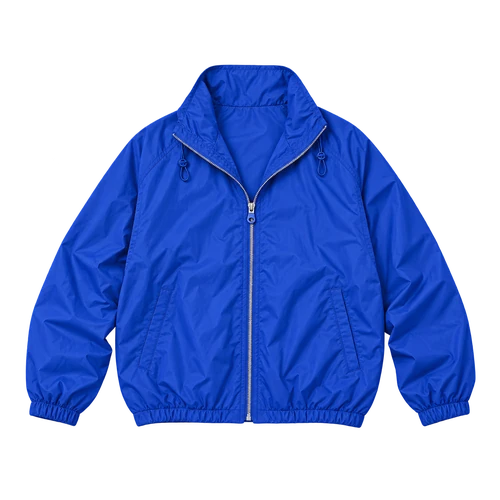
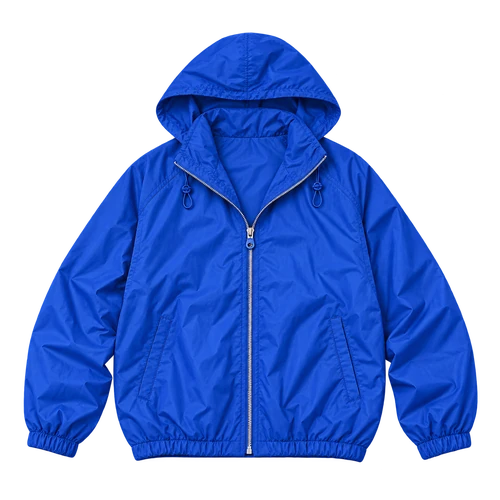
b180: coastal overcast cool 02 windbreaker hood-v2 product cut (parent-resolved hood correction)
Replace only look 02 jacket.webp with the producer's corrected cut showing the
attached hood (editorial hood rests down behind the neck), and rename the item
Cobalt hooded windbreaker (ko/en/de). Other 32 images, editorials, IDs, stories,
how-to-wear and selection unchanged. BUILD b180, module/cutouts cache b180.

Changed region(s): [[0.03, 0.06, 0.96, 0.93], [0.54, 0.51, 0.57, 0.54]]

diff --git a/look/coastal-overcast-cool-female-day-street-20261028.js b/look/coastal-overcast-cool-female-day-street-20261028.js
@@ -22,7 +22,7 @@ var items={
 "coastal-cool-f35-day-street-20261028-01.jeans": {"id": "coastal-cool-f35-day-street-20261028-01.jeans", "cat": "bottom", "name": {"ko": "차콜 와이드 데님", "en": "Washed charcoal wide-leg jeans", "de": "Weite Jeans in verwaschenem Anthrazit"}, "note": {"ko": "상의 밑단을 허리에 가볍게 정리하고 넓은 바짓단이 스니커즈 밑창 아래로 끌리지 않게 길이를 맞추세요.", "en": "Keep the top tidy at the waist and choose a hem that clears the sneakers' soles.", "de": "Das Oberteil am Bund ordnen und die Länge so wählen, dass der weite Saum nicht unter die Sneaker rutscht."}, "image": "look/global/coastal-overcast-cool-female-day-street-20261028/coastal-cool-f35-day-street-20261028-01/products/jeans.webp", "alt": "차콜 와이드 데님 — 독립 투명 배경 제품 컷", "bg": "#F3EFE8"},
 "coastal-cool-f35-day-street-20261028-01.sneakers": {"id": "coastal-cool-f35-day-street-20261028-01.sneakers", "cat": "shoes", "name": {"ko": "오프화이트 스니커즈", "en": "Off-white leather-look sneakers", "de": "Cremeweiße Sneaker in Lederoptik"}, "note": {"ko": "오프화이트 끈을 단정히 묶고 차콜 데님 아래 밝은 앞코가 조금 보이게 입으세요.", "en": "Tie the off-white laces neatly and let a little of the pale toe show below the charcoal denim.", "de": "Die cremeweißen Schnürsenkel ordentlich binden und unter der dunklen Jeans etwas von der hellen Schuhspitze zeigen."}, "image": "look/global/coastal-overcast-cool-female-day-street-20261028/coastal-cool-f35-day-street-20261028-01/products/sneakers.webp", "alt": "오프화이트 스니커즈 — 독립 투명 배경 제품 컷", "bg": "#F3EFE8"},
 "coastal-cool-f35-day-street-20261028-01.crossbody": {"id": "coastal-cool-f35-day-street-20261028-01.crossbody", "cat": "bag", "name": {"ko": "버건디 크로스백", "en": "Burgundy flap crossbody bag", "de": "Bordeauxrote Umhängetasche mit Klappe"}, "note": {"ko": "가방을 옆구리에 가깝게 짧게 메면 몸을 비틀어 봉투를 받칠 때 앞으로 크게 흔들리지 않아요.", "en": "Wear the bag close to your hip so it swings less when you turn to catch the paper bag.", "de": "Die Tasche nah an der Hüfte tragen, damit sie beim Drehen nach der Papiertüte weniger schwingt."}, "image": "look/global/coastal-overcast-cool-female-day-street-20261028/coastal-cool-f35-day-street-20261028-01/products/crossbody.webp", "alt": "버건디 크로스백 — 독립 투명 배경 제품 컷", "bg": "#F3EFE8"},
-"coastal-cool-f35-day-street-20261028-02.jacket": {"id": "coastal-cool-f35-day-street-20261028-02.jacket", "cat": "outer", "name": {"ko": "코발트 윈드브레이커", "en": "Cobalt windbreaker", "de": "Kobaltblaue Windjacke"}, "note": {"ko": "지퍼를 열어 크림 니트를 드러내고 꽃다발을 감싸는 손목 주변만 소매를 가볍게 정리하세요.", "en": "Leave the zip open over the cream knit and ease the cuffs back from the hands holding the bouquet.", "de": "Den Reißverschluss über dem cremefarbenen Strick offen lassen und die Bündchen von den Händen am Blumenstrauß zurückschieben."}, "image": "look/global/coastal-overcast-cool-female-day-street-20261028/coastal-cool-f35-day-street-20261028-02/products/jacket.webp", "alt": "코발트 윈드브레이커 — 독립 투명 배경 제품 컷", "bg": "#F3EFE8"},
+"coastal-cool-f35-day-street-20261028-02.jacket": {"id": "coastal-cool-f35-day-street-20261028-02.jacket", "cat": "outer", "name": {"ko": "코발트 후드 윈드브레이커", "en": "Cobalt hooded windbreaker", "de": "Kobaltblaue Windjacke mit Kapuze"}, "note": {"ko": "지퍼를 열어 크림 니트를 드러내고 꽃다발을 감싸는 손목 주변만 소매를 가볍게 정리하세요.", "en": "Leave the zip open over the cream knit and ease the cuffs back from the hands holding the bouquet.", "de": "Den Reißverschluss über dem cremefarbenen Strick offen lassen und die Bündchen von den Händen am Blumenstrauß zurückschieben."}, "image": "look/global/coastal-overcast-cool-female-day-street-20261028/coastal-cool-f35-day-street-20261028-02/products/jacket.webp", "alt": "코발트 윈드브레이커 — 독립 투명 배경 제품 컷", "bg": "#F3EFE8"},
 "coastal-cool-f35-day-street-20261028-02.knit": {"id": "coastal-cool-f35-day-street-20261028-02.knit", "cat": "top", "name": {"ko": "크림 크루넥 니트", "en": "Cream crewneck knit", "de": "Cremefarbener Rundhalspullover"}, "note": {"ko": "크림색 목선을 윈드브레이커 위로 단정히 드러내 코발트와 꽃의 색 사이를 부드럽게 이어 주세요.", "en": "Keep the cream neckline visible to soften the contrast between the cobalt jacket and the flowers.", "de": "Den cremefarbenen Ausschnitt sichtbar lassen; er verbindet das kräftige Blau mit den zarten Blumenfarben."}, "image": "look/global/coastal-overcast-cool-female-day-street-20261028/coastal-cool-f35-day-street-20261028-02/products/knit.webp", "alt": "크림 크루넥 니트 — 독립 투명 배경 제품 컷", "bg": "#F3EFE8"},
 "coastal-cool-f35-day-street-20261028-02.trousers": {"id": "coastal-cool-f35-day-street-20261028-02.trousers", "cat": "bottom", "name": {"ko": "네이비 와이드 팬츠", "en": "Navy wide-leg trousers", "de": "Weite marineblaue Hose"}, "note": {"ko": "꽃다발을 들고 걸을 때 발목 주위가 걸리지 않도록 넓은 밑단을 신발 위에서 정돈하세요.", "en": "Keep the wide hems clear of the ankles and shoes while walking with the bouquet.", "de": "Beim Gehen mit dem Blumenstrauß darauf achten, dass die weiten Säume nicht an Knöcheln oder Schuhen hängen bleiben."}, "image": "look/global/coastal-overcast-cool-female-day-street-20261028/coastal-cool-f35-day-street-20261028-02/products/trousers.webp", "alt": "네이비 와이드 팬츠 — 독립 투명 배경 제품 컷", "bg": "#F3EFE8"},
 "coastal-cool-f35-day-street-20261028-02.sneakers": {"id": "coastal-cool-f35-day-street-20261028-02.sneakers", "cat": "shoes", "name": {"ko": "라이트 그레이 스니커즈", "en": "Pale grey panel sneakers", "de": "Hellgraue Sneaker mit Einsätzen"}, "note": {"ko": "라이트 그레이 스니커즈 위로 네이비 바짓단이 가볍게 떨어지도록 맞춰 밝은 신발을 살짝 드러내세요.", "en": "Let the navy hems fall lightly over the pale grey sneakers, leaving the toes visible.", "de": "Die marineblauen Säume locker über die hellgrauen Sneaker fallen lassen und die Schuhspitzen sichtbar lassen."}, "image": "look/global/coastal-overcast-cool-female-day-street-20261028/coastal-cool-f35-day-street-20261028-02/products/sneakers.webp", "alt": "라이트 그레이 스니커즈 — 독립 투명 배경 제품 컷", "bg": "#F3EFE8"},

diff --git a/index.html b/index.html
@@ -589,8 +589,8 @@
 <script src="look/coastal-sunny-pleasant-female-day-street-20261027.js?v=b176"></script>
 <script src="look/coastal-warm-male-day-street-20261027.js?v=b177"></script>
 <script src="look/coastal-warm-male-evening-street-20261027.js?v=b178"></script>
-<script src="look/coastal-overcast-cool-female-day-street-20261028.js?v=b179"></script>
-<script src="look/cutouts.js?v=b179"></script>
+<script src="look/coastal-overcast-cool-female-day-street-20261028.js?v=b180"></script>
+<script src="look/cutouts.js?v=b180"></script>
 <script src="look/coast-grid.js?v=b175"></script>
 <script src="look/global-context.js?v=b175"></script>
 <script>
@@ -1006,7 +1006,7 @@
   }
 
   // Shown in the status line so it is easy to tell whether the phone runs the latest version
-  var BUILD = "b179";
+  var BUILD = "b180";
 
   // ── Today's Look: outfit sheet behind the feels-like block ──
   // Profile (gender f/m/x, age u35/35/60, style run/street/minimal, baby y/n) lives only in localStorage.

diff --git a/CLAUDE.md b/CLAUDE.md
@@ -20,7 +20,7 @@
 
 광고 없이 지금 날씨를 숫자 하나로 보여주는 아이폰용 날씨앱. 디자인은 Claude 디자인 캔버스에서 확정했고, 이 폴더의 `design/`에 그대로 들어 있습니다.
 
-## 현재 상태 (2026-10-28, 빌드 b179)
+## 현재 상태 (2026-10-28, 빌드 b180)
 
 - GitHub Pages로 배포됨: https://jinex001.github.io/Weather-App/ · `main`에 push하면 1~2분 뒤 반영.
 - `index.html`: 웹앱. Open-Meteo 예보 + DWD 실측(Bright Sky) + 구름 양 중간값(MET Norway), 5가지 색 상태(낮 4 + 밤 1, 흐린 낮은 햇빛 3단계), 움직이는 날씨 그림, 체감온도 9단계 블록, 홈의 오늘의 룩 글자 + 요약 = 오늘의 픽 룩 타이틀·캡션·인트로 + 비 문장(b117), 24시간 예보(바람·강수), 하단 메뉴(홈·캘린더·설정·알림, 공통 글라스), 캘린더 7 DAYS = 내일부터 7일 카드(그날 날씨에 맞는 룩의 대표 제품 컷, 누르면 그 룩 에디토리얼 + 날짜·요일·움직이는 아이콘·기온·강수·바람, b107; 끝없이 도는 겹친 카드 b165), **Today's Look**(공통 글라스 시트, 고른 스타일·성별 안에서 룩 3개 랜덤, 사진만 스와이프, 흐린 날 세트는 제품 카드 안에 입는 법), 질문 화면, 기기 언어 자동(ko/en/de), 15분 새로고침, 오프라인 캐시. 도시 이름(+ 위치 핀)을 누르면 위치 시트: 도시 검색 · 내 목록 저장 · 현재 위치(b123).
@@ -491,4 +491,8 @@ b161 04 그레이 프린지 머플러(`rl-chilly-m35-night-street-20261026-04.05
 ## b179 · 해안 · 흐림 · 선선함 · 여성 · 35+ · 낮 · 스트리트 — 2026-10-28 세트 5룩 (2026-10-28)
 
 사용자 요청(최신 에디토리얼 5장 승인 + 이 배치의 `origin/main` 반영·배포까지 명시 승인; 원본 보관·삭제는 배포 확인 뒤 상위 작업이 함). 로컬 outbox 배치(READY.json 154개 SHA-256 일치)의 `originals/product-batch/complete/<룩 ID>/`만 씀: 승인 에디토리얼 5장(01 coffee-paper-bag · 02 flowers-v2 · 03 orange-tote · 04 seated-map-v2 · 05 keys, 1024×1536 JPG 258,415–288,341 B) + 독립 투명 WebP 제품 28개(5/6/5/6/6, 500×500, VP8X+ALPH+VP8, 16,920–49,240 B) 바이트 그대로 → `look/global/coastal-overcast-cool-female-day-street-20261028/<룩 ID>/`, 보충 파일 `look/coastal-overcast-cool-female-day-street-20261028.js`(b178 모듈 뒤·cutouts.js 앞). PNG 마스터·버린 에디토리얼(02 newspaper·04 standing map·01-editorial-v2)·05 버건디 끈 신발 컷·QA 시트·프롬프트·생성 기록·스크립트는 커밋 안 함. 룩 `coastal-cool-f35-day-street-20261028-01`–`05`(**sky `cloudy`**(제작 측 overcast) · **cool** · street · f · age "35" · 낮이라 `time` 없음, `visualRegion: warm-coastal-urban`, `humidityContext: unknown`, reviewed), 아이템 `<룩 ID>.<제품 id>` 28개 모두 새 ID. **첫 선선함 룩**: 해안 지역 흐린 낮 선선함 여성 스트리트는 베를린 쌀쌀함 흐림 룩(옆 단계) 대신 이 5룩 중 3개, 해안 흐린 낮 쾌적함 여성 스트리트는 COMING SOON → 이 5룩(옆 단계). 장면: 01 카페 나서며 커피·미끄러지는 종이봉투 · 02 골목에서 꽃다발 포장 정돈 · 03 채소 가게 앞 캔버스 토트에서 오렌지 받치기 · 04 돌계단에 앉아 지도 · 05 현관 앞 열쇠(소품은 제품 아님). 04 신발은 앉은 수정본의 크림·베이지 스니커즈, 05 신발은 크림 끈 v2. 분류: 재킷·봄버 `outer`, 니트 `top`, 데님·팬츠 `bottom`, 스니커즈 `shoes`, 가방 3종 `bag`·후프 `jewelry`(제작 측 `accessory`는 `sourceAppCategory`). 문구: 제작 측 ko/en/de 완성본(제목·deck·인트로·인용구·팁, 제품별 이름·입는 법 28개 모두 다름) 그대로; en deck만 영어 제목과 같은 문장이라 장면 문장으로(원문 `copy.sourceDeckEn`), 입는 법 4곳 관용구(01 재킷 en·de, 04 귀걸이 en, 05 재킷 en; 원문 `sourceHowToWear`). 대표 컷 = 아우터 WebP 자체(04 봄버, 나머지 재킷). 체감 16°C는 제작 장면 가정(측정·실시간 아님), 기온·습도·바람·도시 null. 모델 외관 28–32(승인된 생성 프롬프트 그대로, 새 25–28 기준 소급 안 함), 저장 35+. 가려진 뒤판·전체 길이·짝 신발/귀걸이·02 가방 형태는 추정 복원. 02 윈드브레이커는 사진에선 후드를 썼고 제품 컷은 칼라 + 조임끈(보고만). 제품별 사용자 육안 승인은 주장하지 않음(제작 측 기술·4배경 검수 + Claude가 33장 모두 열어 봄). node·jsc·Pillow 실행이 막혀 WebP는 헤더(VP8X 알파 플래그 + ALPH 무손실 압축, 500×500)까지만 직접 확인(픽셀 알파는 제작 측 QA), 런타임은 룩 스크립트를 index.html 순서대로 파이썬으로 디코드(JS 실행 아님): 261룩(b178 256 + 5) · 아이템 +28 · 기사 261, 전체 이미지 경로 누락 0, 선택기 파이썬 포트 2,160경우 중 바뀐 것은 해안 흐린 낮 여성 스트리트 선선함·쾌적함 2경우뿐. 브라우저·실기기 화면 확인은 못 함. `cutouts.js?v=b179`. [검증](design/coastal-overcast-cool-female-day-street-20261028-validation.md).
+
+## b180 · b179 02 윈드브레이커 후드 수정 컷 (2026-10-28)
+
+b179 검토 때 보고한 02 제품 컷(칼라 + 조임끈만)을 상위 작업이 후드가 달린 수정본(`revisions/hood-v2`, 제작 측 기술·4배경 검수)으로 해결. 에디토리얼의 후드는 목 뒤로 내린 상태(b179 기록의 "후드를 썼고"는 틀림). 최종 전달 33장 중 바뀐 것은 `look/global/coastal-overcast-cool-female-day-street-20261028/coastal-cool-f35-day-street-20261028-02/products/jacket.webp` 하나(SHA-256 992ff570…be06c, 45,426 B), 나머지 32장 바이트 동일. 02 products.json(이름·설명 ko/en/de, 예전 값 `sourceBeforeHoodCorrection`)과 런타임 이름만 "코발트 후드 윈드브레이커 / Cobalt hooded windbreaker / Kobaltblaue Windjacke mit Kapuze". ID·입는 법·기사·선택 로직·에디토리얼 그대로, HERO 02는 같은 WebP. `BUILD` b180, 보충 모듈·`cutouts.js?v=b180`. [검증](design/coastal-overcast-cool-female-day-street-20261028-validation.md).
 

diff --git a/design/coastal-overcast-cool-female-day-street-20261028-validation.md b/design/coastal-overcast-cool-female-day-street-20261028-validation.md
@@ -13,7 +13,7 @@
 | 룩 | 장면 | 제품 (앱 분류) | 메모 |
 | --- | --- | --- | --- |
 | 01 | 카페 문 앞, 커피를 높이 들고 미끄러지는 종이봉투 | 올리브 필드 재킷(outer) · 오트밀 니트(top) · 차콜 와이드 데님(bottom) · 오프화이트 스니커즈(shoes) · 버건디 크로스백(bag) | 사진과 일치 |
-| 02 | 골목에서 꽃다발 포장 정돈 | 코발트 윈드브레이커(outer) · 크림 니트(top) · 네이비 와이드 팬츠(bottom) · 라이트 그레이 스니커즈(shoes) · 브라운 숄더백(bag) · 골드 후프(jewelry) | 사진은 후드를 쓴 상태, 제품 컷은 칼라 + 조임끈(보고만). 가방은 끈·일부만 보여 형태 추정 |
+| 02 | 골목에서 꽃다발 포장 정돈 | 코발트 윈드브레이커(outer) · 크림 니트(top) · 네이비 와이드 팬츠(bottom) · 라이트 그레이 스니커즈(shoes) · 브라운 숄더백(bag) · 골드 후프(jewelry) | 사진은 후드를 목 뒤로 내린 상태. b179 제품 컷은 칼라 + 조임끈만 보였음 → b180 후드 수정본(아래) 가방은 끈·일부만 보여 형태 추정 |
 | 03 | 채소 가게 앞, 캔버스 토트 입구의 오렌지 받치기 | 러스트 초어 재킷(outer) · 아이보리 니트(top) · 라이트 블루 와이드 데님(bottom) · 탄 스웨이드 스니커즈(shoes) · 내추럴 캔버스 토트(bag) | 일치 |
 | 04 | 돌계단에 앉아 무릎 위 지도 | 샌드 봄버(outer) · 다크 플럼 니트(top) · 워시드 차콜 데님(bottom) · 크림·베이지 패널 스니커즈(shoes) · 다크 브라운 숄더백(bag) · 골드 후프(jewelry) | 신발은 앉은 수정본에 보이는 스니커즈(로퍼 아님) |
 | 05 | 현관 앞에서 열쇠를 들어 보임 | 네이비 크롭 재킷(outer) · 크림·네이비 줄무늬 니트(top) · 스톤 팬츠(bottom) · 버건디 스니커즈 크림 끈 v2(shoes) · 탄 스웨이드 토트(bag) · 골드 후프(jewelry) | 일치 |
@@ -54,3 +54,13 @@
 
 - 브라우저·실기기 화면 렌더링(카드 합성 포함), JS 엔진으로 앱 코드 실행, 픽셀 알파 직접 디코드: 이 세션에서 실행 권한이 없음.
 - 배포 확인은 푸시 뒤 GitHub Pages에서 HTML·모듈·cutouts와 새 이미지 33개 SHA-256을 받아 비교(상위 작업의 영수증 `automation/state/coastal-overcast-cool-female-day-street-20261028-PUBLICATION.json`).
+
+## b180 · 02 윈드브레이커 후드 수정 (2026-10-28)
+
+b179 검토에서 02 제품 컷(칼라 + 조임끈)이 에디토리얼의 달린 후드를 안 보여 준다는 점을 보고함 → 상위 작업(제작 측)이 후드가 달린 수정 컷을 만들고 기술·4배경 육안 검수(`revisions/hood-v2/QA.json`, Codex). 에디토리얼은 그대로이며 후드는 목 뒤로 내린 상태(쓴 상태 아님 — b179 기록의 "후드를 쓴 상태"는 틀림).
+
+- 최종 전달 `revisions/hood-v2/delivery/` 33장 SHA-256을 저장소와 비교: 32장 b179와 바이트 동일, 다른 것은 `coastal-cool-f35-day-street-20261028-02/products/jacket.webp` 하나(992ff570d932765e682ebcc14cbdeb23cc46b916b02ac2058cd5c00e615be06c, 45,426 B, 500×500, 알파 0–255, 50KB 이하).
+- Claude가 수정 컷 · 02 꽃다발 에디토리얼 · 4배경 시트를 열어 봄: 코발트 색, 은색 지퍼, 고무줄 소매·밑단, 조임끈, 달린 후드가 사진과 맞음.
+- 바뀐 것: 그 WebP, 02 `products.json`(이름·설명 ko/en/de, 해시·용량, 예전 값은 `sourceBeforeHoodCorrection`, `hoodCorrection`), 런타임 아이템 이름(코발트 후드 윈드브레이커 / Cobalt hooded windbreaker / Kobaltblaue Windjacke mit Kapuze). 입는 법·기사·제목·ID·분류·선택 로직·다른 32장·에디토리얼 그대로. 대표 컷(HERO 02)은 같은 `jacket.webp`를 직접 가리킴(복제 없음).
+- `BUILD` b180, 보충 모듈·`cutouts.js?v=b180`.
+

diff --git a/design/look-library.md b/design/look-library.md
@@ -311,4 +311,4 @@ Second dated set for this category: five user-approved editorials plus 34 indepe
 - 배치 `coastal-overcast-cool-female-day-street-20261028`(READY.json 154개 SHA-256 일치, 사용자가 최신 에디토리얼 5장 승인 — 02 꽃다발 수정본·04 앉아서 지도 보는 수정본, 2026-10-28). 에디토리얼 5장(1024×1536 JPG ≤288,341 B) + 독립 투명 WebP 제품 28개(5/6/5/6/6, 500×500, ≤49,240 B) 바이트 그대로 → `look/global/coastal-overcast-cool-female-day-street-20261028/<룩 ID>/editorial.jpg`·`products/<제품 id>.webp`, 보충 파일 `look/coastal-overcast-cool-female-day-street-20261028.js`(b178 모듈 뒤·cutouts.js 앞).
 - 룩 `coastal-cool-f35-day-street-20261028-01`–`05`(**cloudy**(제작 측 condition `overcast`는 설명값) · **cool** · f · 35 · street · 낮 = `time` 없음, `visualRegion: warm-coastal-urban`, `humidityContext: unknown`, reviewed). 01 올리브 필드 재킷 + 오트밀 니트 + 차콜 와이드 데님 + 오프화이트 스니커즈 + 버건디 크로스백(카페 나서며 커피·종이봉투) · 02 코발트 윈드브레이커 + 크림 니트 + 네이비 와이드 팬츠 + 그레이 스니커즈 + 브라운 숄더백 + 골드 후프(꽃다발 정돈) · 03 러스트 초어 재킷 + 아이보리 니트 + 라이트 블루 데님 + 탄 스니커즈 + 캔버스 토트(오렌지 받치기) · 04 샌드 봄버 + 플럼 니트 + 차콜 데님 + 크림·베이지 스니커즈 + 다크 브라운 숄더백 + 골드 후프(돌계단에서 지도) · 05 네이비 크롭 재킷 + 크림·네이비 줄무늬 니트 + 스톤 팬츠 + 버건디 스니커즈(크림 끈 v2) + 탄 스웨이드 토트 + 골드 후프(현관 앞 열쇠). 컵·종이봉투·꽃·오렌지/채소·지도·열쇠는 소품.
 - 아이템 ID `<룩 ID>.<제품 id>`(28개 모두 새 ID). 분류: 재킷·봄버 `outer`, 니트 `top`, 데님·팬츠 `bottom`, 스니커즈 `shoes`, 크로스백·숄더백·토트 `bag`(제작 측 `accessory`는 `sourceAppCategory`), 후프 `jewelry`. 대표 컷 = 아우터 WebP 자체(04 봄버, 나머지 재킷; 제목 첫 색 단어 02 COBALT도 재킷).
-- 체감 16°C는 제작 측 장면 가정(측정·실시간 아님), 기온·습도·바람·도시 null. 모델 외관 28–32(승인된 생성 프롬프트 그대로, 새 25–28 기준을 소급 적용하지 않음), 저장 35+. 가려진 뒤판·전체 길이·짝 신발/귀걸이·02 가방 형태는 추정 복원. 02 윈드브레이커는 사진에선 후드를 썼고 제품 컷은 칼라 + 조임끈 모습(보고만). [검증](coastal-overcast-cool-female-day-street-20261028-validation.md).
+- 체감 16°C는 제작 측 장면 가정(측정·실시간 아님), 기온·습도·바람·도시 null. 모델 외관 28–32(승인된 생성 프롬프트 그대로, 새 25–28 기준을 소급 적용하지 않음), 저장 35+. 가려진 뒤판·전체 길이·짝 신발/귀걸이·02 가방 형태는 추정 복원. 02 윈드브레이커는 후드가 달려 있고 사진에선 목 뒤로 내려 둠 — b179 제품 컷은 칼라 + 조임끈만 보여서 b180에서 상위 작업이 만든 후드 수정본(hood-v2)으로 교체, 이름 "코발트 후드 윈드브레이커". [검증](coastal-overcast-cool-female-day-street-20261028-validation.md).

diff --git a/look/global/coastal-overcast-cool-female-day-street-20261028/README.md b/look/global/coastal-overcast-cool-female-day-street-20261028/README.md
@@ -7,6 +7,6 @@ Fifth warm-coastal global set and the first overcast / cool one (app build b179)
 - Approval: the user approved the latest five editorials (02 flowers revision, 04 seated-map revision) and authorized publishing this batch (2026-10-28). Products passed the producer's technical and four-background visual review (Codex); no per-product user visual approval.
 - Files per look: `editorial.jpg` (1024×1536 JPEG), `products/<product id>.webp` (500×500 transparent WebP, bytes as delivered), `products.json` (app mapping and final ko/en/de copy; producer text kept as `sourceDeckEn`, `sourceHowToWear`, `sourceAppCategory` where refined).
 - Scenes: 01 leaving a café, coffee held high while a paper bag slips · 02 tidying a bouquet's paper in a lane · 03 catching an orange at a canvas tote outside a greengrocer · 04 seated on stone steps with a map · 05 holding up keys at a front door. Cup, paper bag, flowers, oranges/groceries, map and keys are props, never products.
-- 04 shoes are the cream/beige panel sneakers visible in the seated revision. 05 shoes use the cream-lace v2 cutout. The 02 windbreaker is worn with the hood up in the photo; the product cut shows the collar with drawcords.
+- 04 shoes are the cream/beige panel sneakers visible in the seated revision. 05 shoes use the cream-lace v2 cutout. The 02 windbreaker has an attached hood, resting down behind the neck in the photo. Hood correction (b180, revision hood-v2): the b179 product cut showed only a collar with drawcords; the parent producer replaced it with a cut that shows the attached hood (`products/jacket.webp`, SHA-256 992ff570…be06c, 45,426 B) and renamed the item “Cobalt hooded windbreaker” (ko/en/de); the previous name, description and hash are kept in `products.json` `sourceBeforeHoodCorrection`. The editorial, story and how-to-wear are unchanged.
 - Reconstruction: hidden backs, full lengths, paired shoes/earrings and the partly hidden 02 bag shape are editorial reconstructions. Brands, prices, links and fibre composition are unknown; these are not verified retail listings.
 - App: `look/coastal-overcast-cool-female-day-street-20261028.js`; region rules `look/global-context.js`. Rules: `design/look-library.md`, validation `design/coastal-overcast-cool-female-day-street-20261028-validation.md`.
